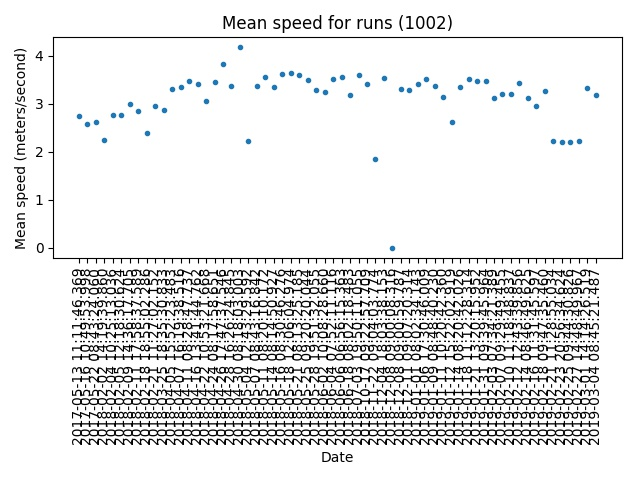
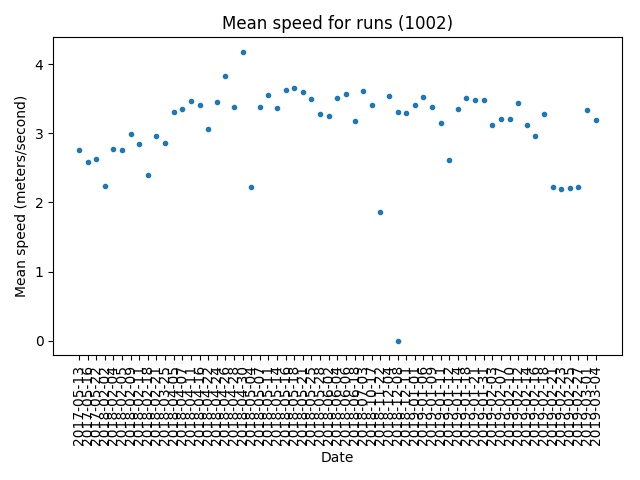
dropped time component from datetime to tidy charts

diff --git a/exercise/running.py b/exercise/running.py
@@ -2,6 +2,7 @@
 
 import pandas as pd
 import matplotlib.pyplot as plt
+import re
 
 
 def main():
@@ -16,16 +17,18 @@ def main():
 	# select rows where the exercise code indicates running
 	running = df.loc[df['exercise_type'] == 1002]
 
-	#mean_speed(running)
-	#distance(running)
+	mean_speed(running)
+	distance(running)
 	duration(running)
 
 
 def mean_speed(running):
 	''' Plots mean speed of runs'''
 
-	# slice the columns with the date and average speed
-	x = running['start_time']
+	# slice the start time column and keep the date, but not the time
+	x = running['start_time'].str.split(' ').str[0]
+
+	# slice the mean_speed column
 	y = running['mean_speed']
 
 	# make a plot
@@ -44,8 +47,10 @@ def mean_speed(running):
 def distance(running):
 	''' Plots distance of runs'''
 
-	# slice the columns with the data and distance
-	x = running['start_time']
+	# slice the start time column and keep the date, but not the time
+	x = running['start_time'].str.split(' ').str[0]
+
+	# slice the distance column
 	y = running['distance']
 
 	# convert meters to kilometers
@@ -67,8 +72,10 @@ def distance(running):
 def duration(running):
 	''' Plots duration of runs'''
 
-	# slice the columns with the data and distance
-	x = running['start_time']
+	# slice the start time column and keep the date, but not the time
+	x = running['start_time'].str.split(' ').str[0]
+	
+	# slice the duration column
 	y = running['duration']
     
 	# convert milliseconds to minutes
